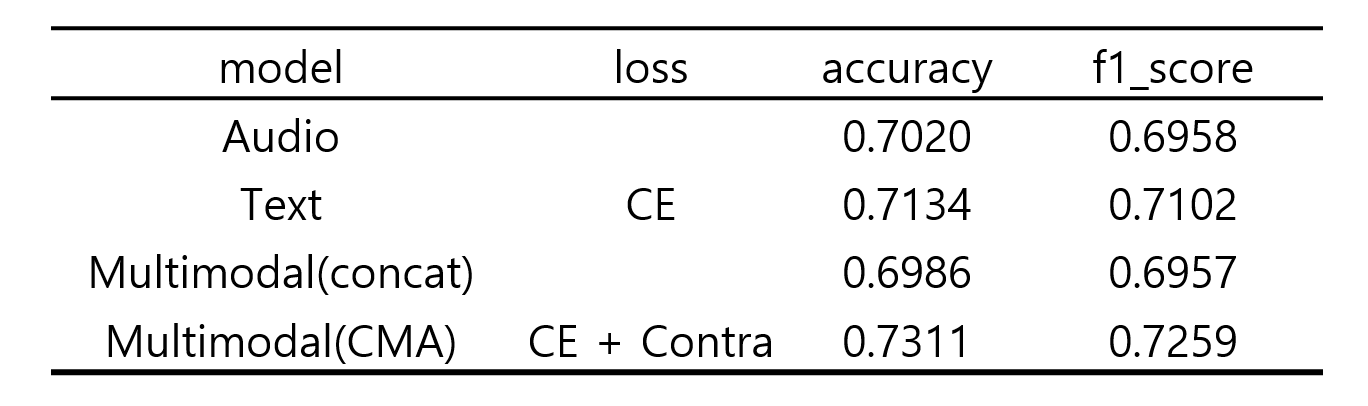
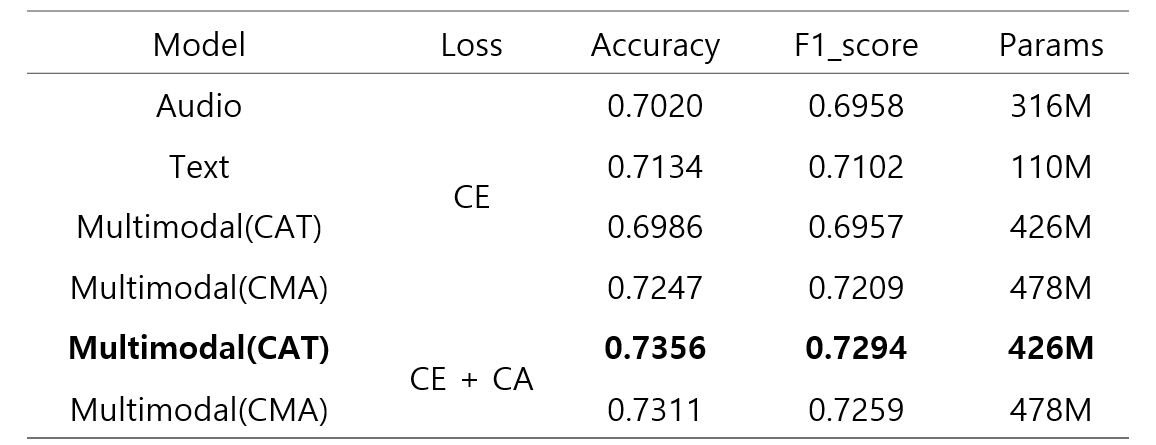
update .gitignore and readme.md

diff --git a/README.md b/README.md
@@ -7,6 +7,8 @@ MultiModal Emotion Recognition using Cross modal Attention module and Contrastiv
 
 <img src="result/model_figure.png" width=900> 
 
+<img src="result/model_figure_2.png" width=900> 
+
 
 # Installation
 ## Experiment setting
@@ -101,7 +103,7 @@ CUDA_VISIBLE_DEVICES=0 python inference.py
 
 # Result
 
-In table, CE means cross entropy and contra means contrastive loss repectively.
-Multimodal(concat) represents using concatenate for multimodal modeling and Multimodal(CMA) represents using cross modal attention respectively.
+In table, CE means cross entropy and CA means contrastive loss repectively.
+Multimodal(CAT) represents using concatenate for multimodal modeling and Multimodal(CMA) represents using cross modal attention respectively.
 
 <img src="result/metric.png" width=900> 
